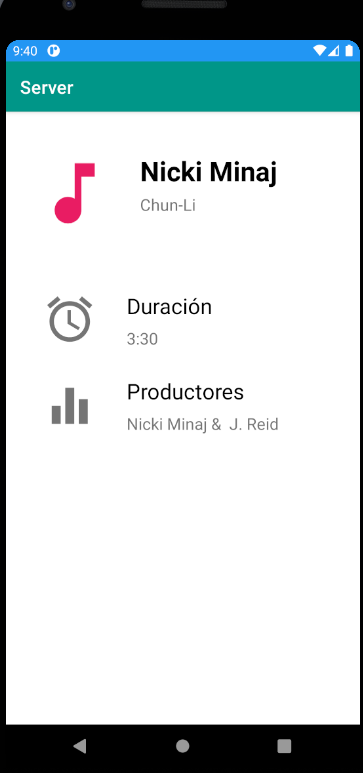
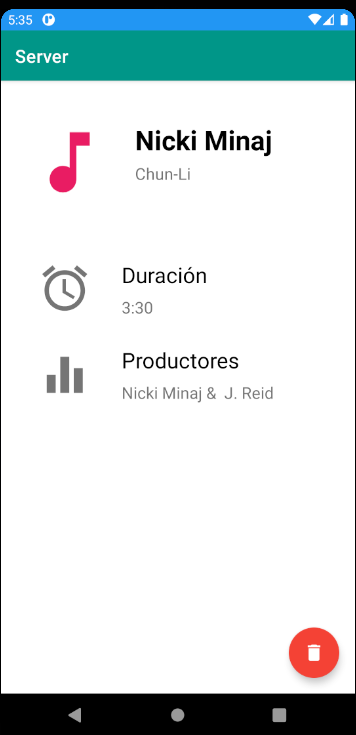
añadido docu de borrado al readme

diff --git a/README.md b/README.md
@@ -21,6 +21,10 @@ En este apartado explico las diferentes peticiones que hemos llevado a cabo en l
 
 ![getOne](./docs/capturas/getCancion.png)
 
+- DELETE de una canción concreta con un Diálogo.
+
+![deleteOne](./docs/capturas/deleteCancion.png)
+
 - POST de una canción (se puede elegir si enviar con Retrofit o con Volley) pinchando sobre el FAB de inicio.
 
 ![post](./docs/capturas/postCancion.png)
